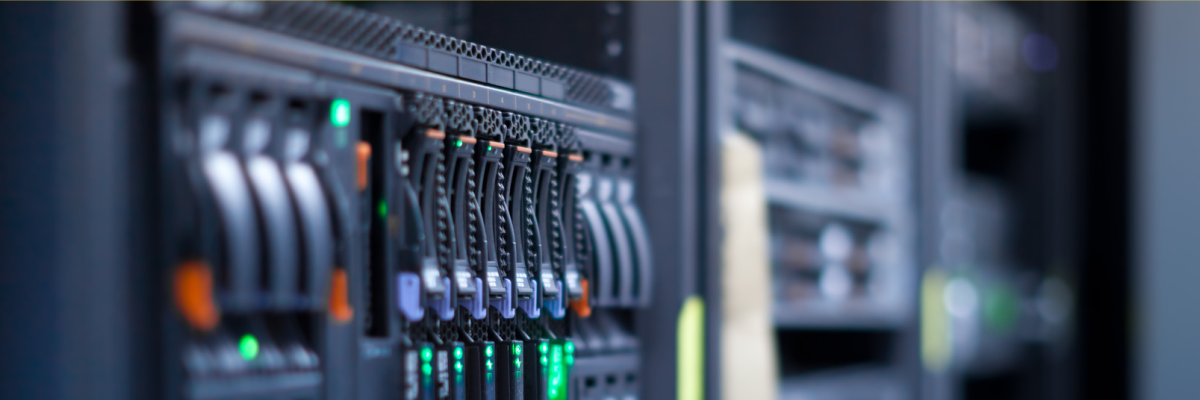
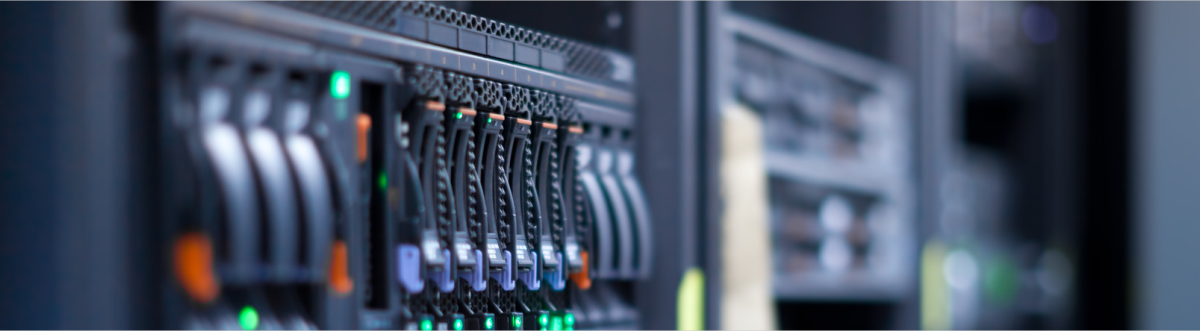
final

diff --git a/css/custom-styles.css b/css/custom-styles.css
@@ -105,7 +105,7 @@ html, body {
 
 /* header */
 .header-top {
-    padding: 25px 50px 50px;
+    padding: 25px 50px;
 }
 .logo {
     display: inline-block;
@@ -143,7 +143,6 @@ html, body {
     background: #0068ba;
     margin-right: 2px;
     color: #ffffff;
-    font-family: "OpenSans Bold", sans-serif;
 }
 
 .sign-block {
@@ -181,20 +180,29 @@ nav .mobile-menu {
     position: relative;
     z-index: 1;
 }
+nav>ul {
+    display: flex;
+    justify-content: center;
+}
 nav>ul>li {
     position: relative;
-    margin: 0 3px;
+    margin: 0;
+    width: 15%;
 }
 nav ul li a {
-    display: inline-block;
-    height: 58px;
-    line-height: 58px;
+    display: flex;
+    flex-direction: column;
+    justify-content: center;
+    line-height: 1.3;
     font-family: "OpenSans Regular", sans-serif;
     font-size: 16px;
     color: #ffffff;
     text-decoration: none;
-    padding: 0 5px;
-    font-weight: 600;
+    height: 60px;
+    text-align: center;
+}
+nav ul li a.active {
+    background: #548094;
 }
 nav ul li ul {
     display: none;
@@ -213,14 +221,14 @@ nav ul li ul li:last-child {
     margin-bottom: 5px;
 }
 nav ul li ul li a {
-    height: 20px;
+    height: 40px;
     line-height: 20px;
     font-weight: 100;
 }
 nav ul li ul li:hover {
     background: #7f9fae;
 }
-nav ul li:hover {
+nav>ul>li:hover {
     background: #548094;
 }
 nav ul li:hover ul {
@@ -229,7 +237,7 @@ nav ul li:hover ul {
 .image-server-room {
     display: block;
     width: 100%;
-    padding-top: 33.33333%;
+    padding-top: 27.58333333333333%;
     background: url('../images/background-header.png') no-repeat center;
     background-size: cover;
 }
@@ -276,7 +284,7 @@ nav ul li:hover ul {
     color: #9d9e9e;
     display: inline-block;
     vertical-align: middle;
-    width: 54%;
+    width: 53%;
     padding-left: 10px;
 }
 .products .parameter-value {

diff --git a/index.html b/index.html
@@ -41,8 +41,8 @@
 
             <p class="mobile-menu"><span class="to-open">Показать меню</span><span class="to-hide">Скрыть меню</span></p>
 
-            <ul>
-                <li><a href="#">Главная</a></li>
+            <ul class="block-content">
+                <li><a href="#" class="active">Главная</a></li>
                 <li>
                     <a href="#">О компании</a>
                     <ul>
